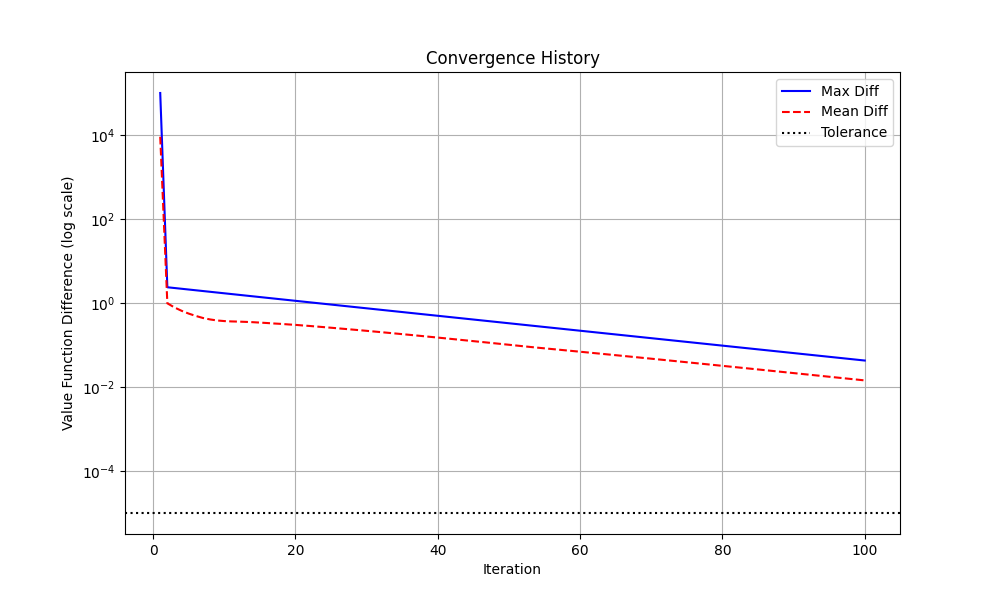
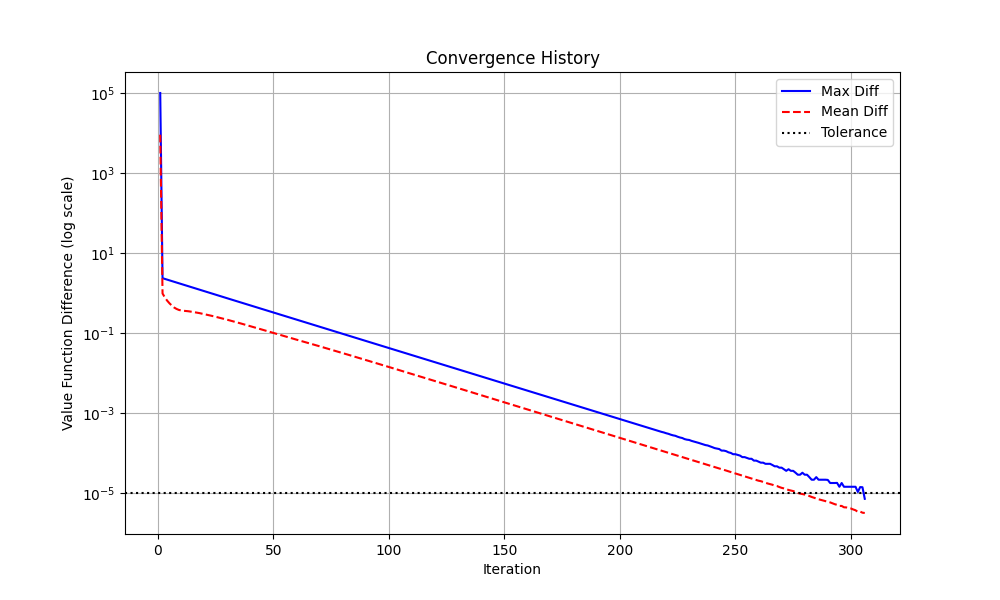
Time to condense d & l

diff --git a/first_attempt.py b/first_attempt.py
@@ -1064,7 +1064,7 @@ params = {
         'Ag0': 0.1,        # Exogenous government spending 
 
         # Convergence parameters
-        'max_iter': 100,   # Maximum number of iterations
+        'max_iter': 1000,   # Maximum number of iterations
         'tol': 1e-5        # Convergence tolerance
     }
 
